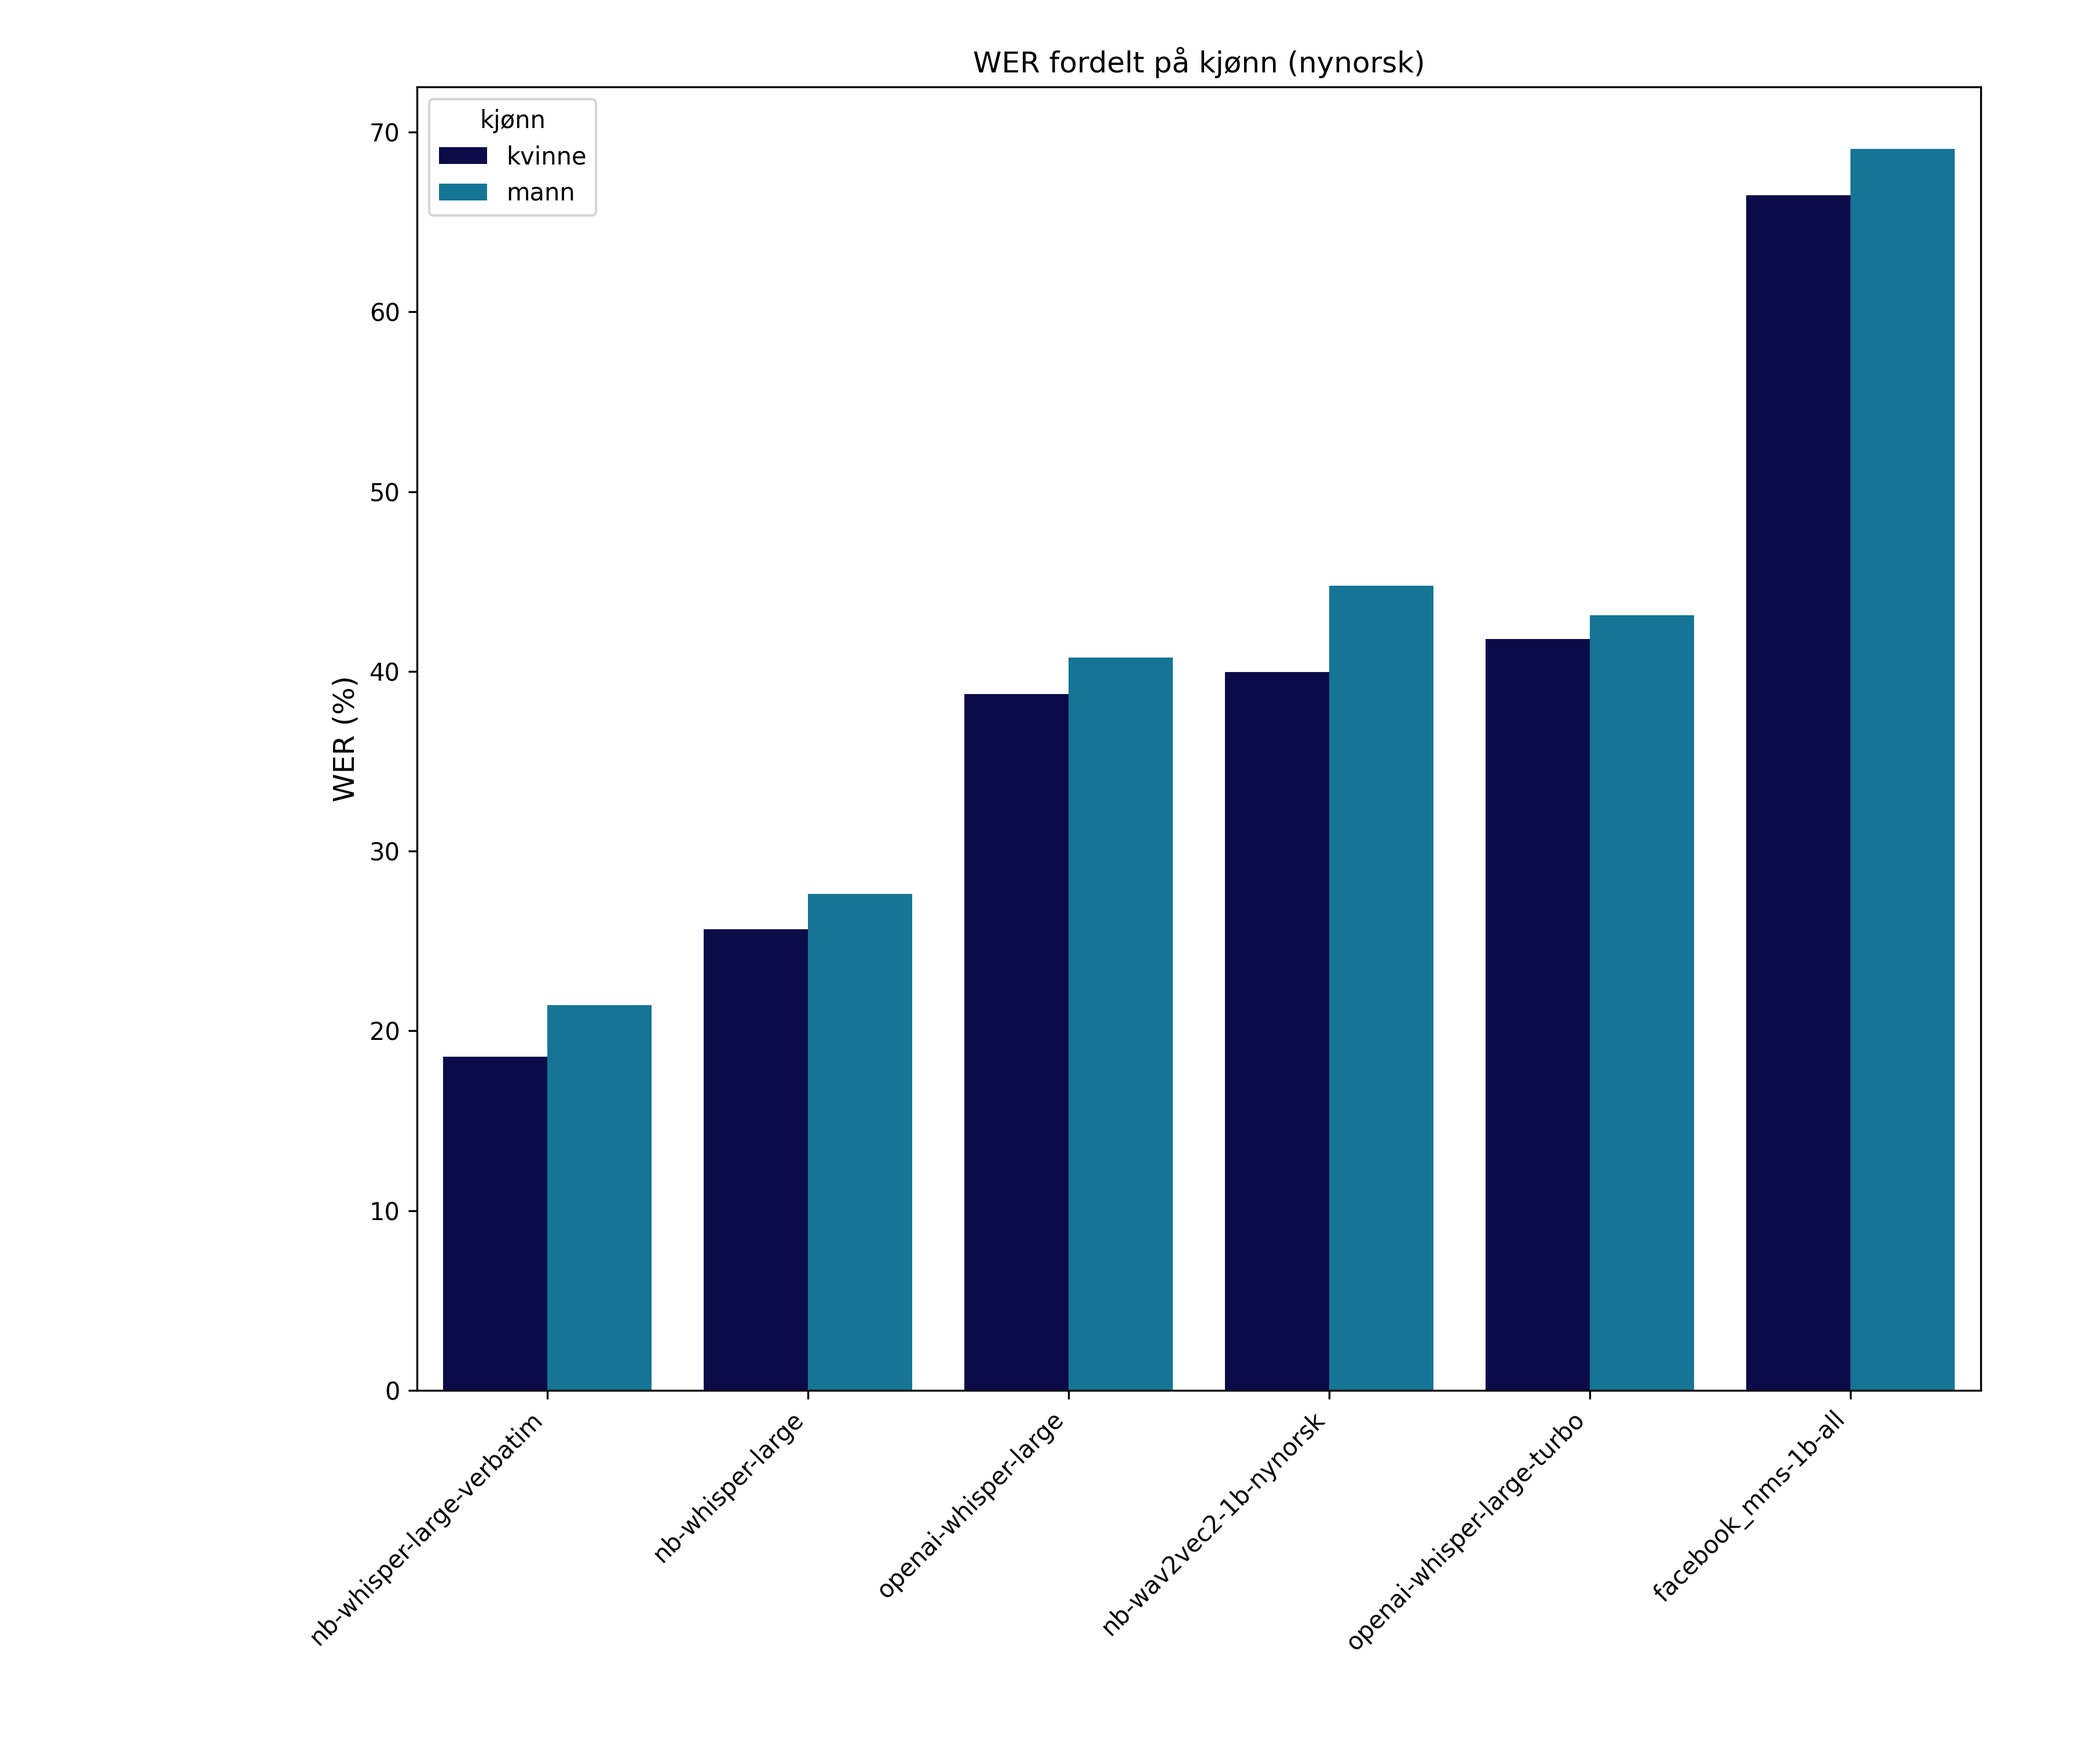
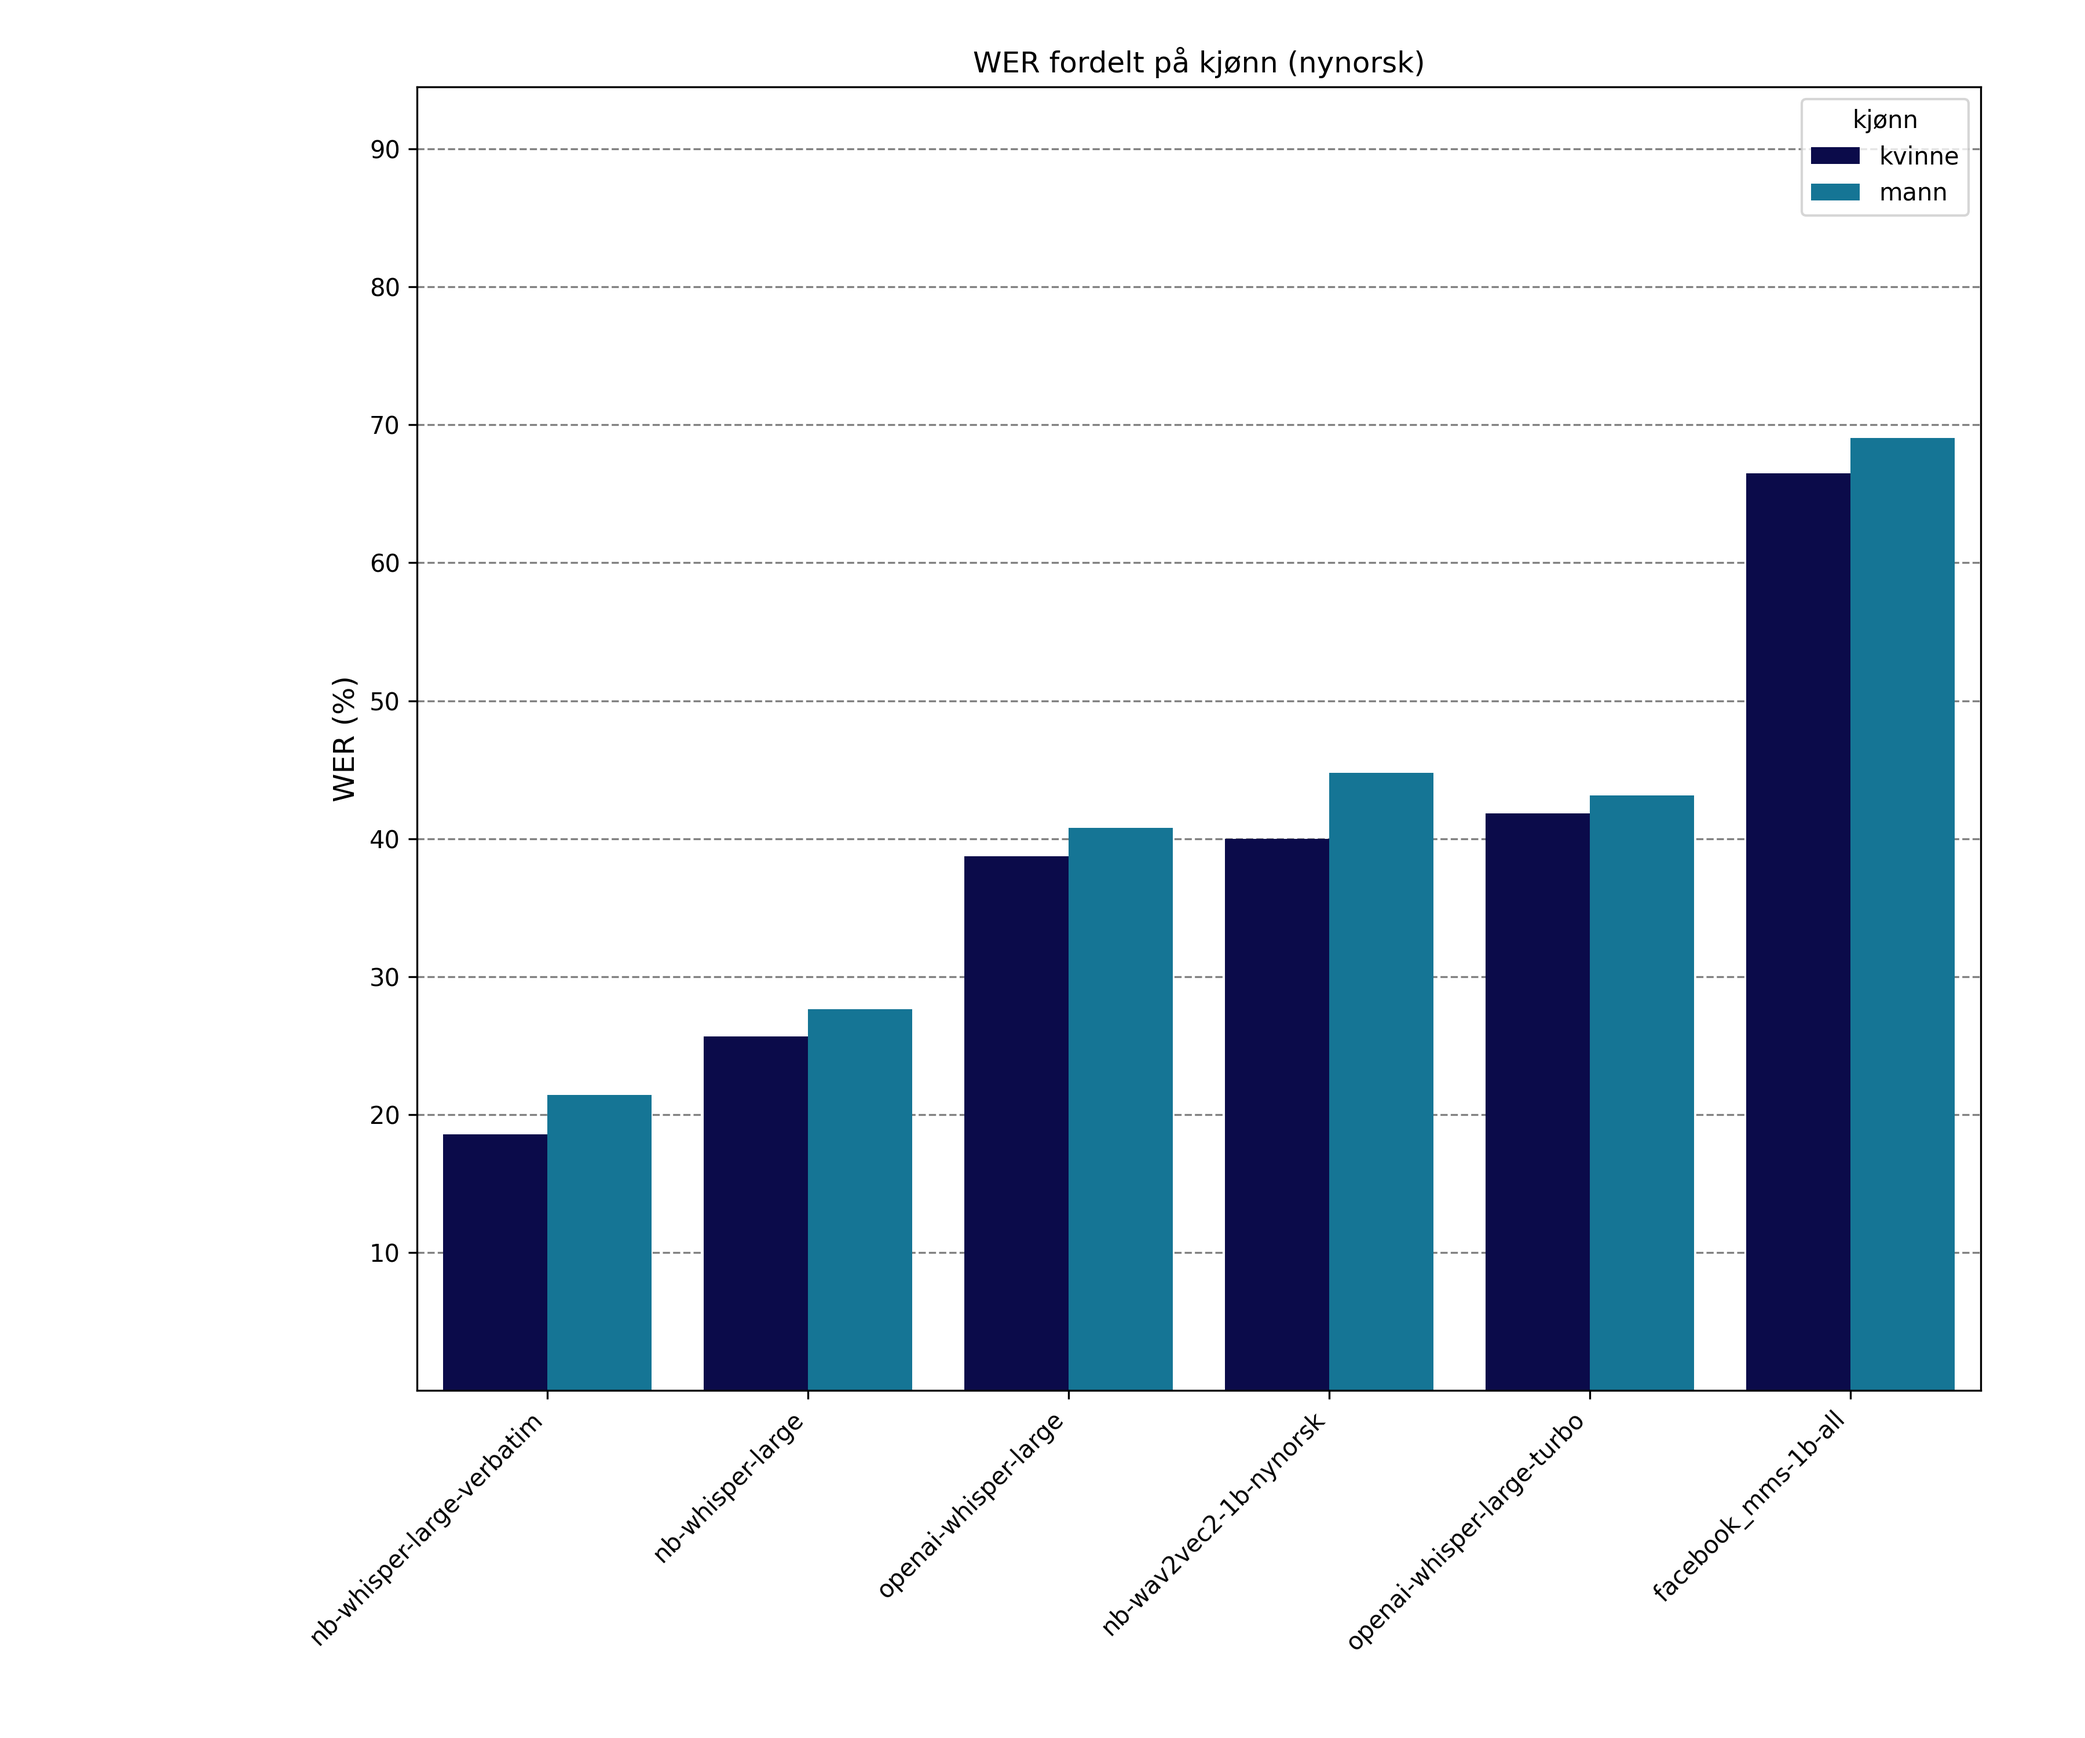
Add horizontal lines to barchart and remove chirp from plots

diff --git a/notebooks/notebook_utils.py b/notebooks/notebook_utils.py
@@ -158,21 +158,27 @@ def make_plot(
     match plot_type:
         case "barchart":
             viz_df[metric] = viz_df[metric] * 100
-
+            score_display_range = list(range(10, 100, 10))
             sns.barplot(
                 x="modell",
                 y=metric,
                 hue=feature,
                 data=viz_df.sort_values([feature, metric]),
                 palette="ocean",
+                zorder=2,
             )
+
+            for y_value in score_display_range:  # Example y-values for the lines
+                plt.axhline(
+                    y=y_value, color="gray", linestyle="--", linewidth=0.8, zorder=1
+                )
 
             plt.xlabel(None)
             plt.ylabel(metric + " (%)", fontsize=12)
             plt.legend(title=label_map[feature])
             # Rotate x-tick labels and adjust font size
             plt.xticks(rotation=45, ha="right", fontsize=10)
-            plt.yticks(fontsize=10)
+            plt.yticks(score_display_range, fontsize=10)
 
         case "heatmap":
             sort_col = viz_df[feature].unique()[0]
